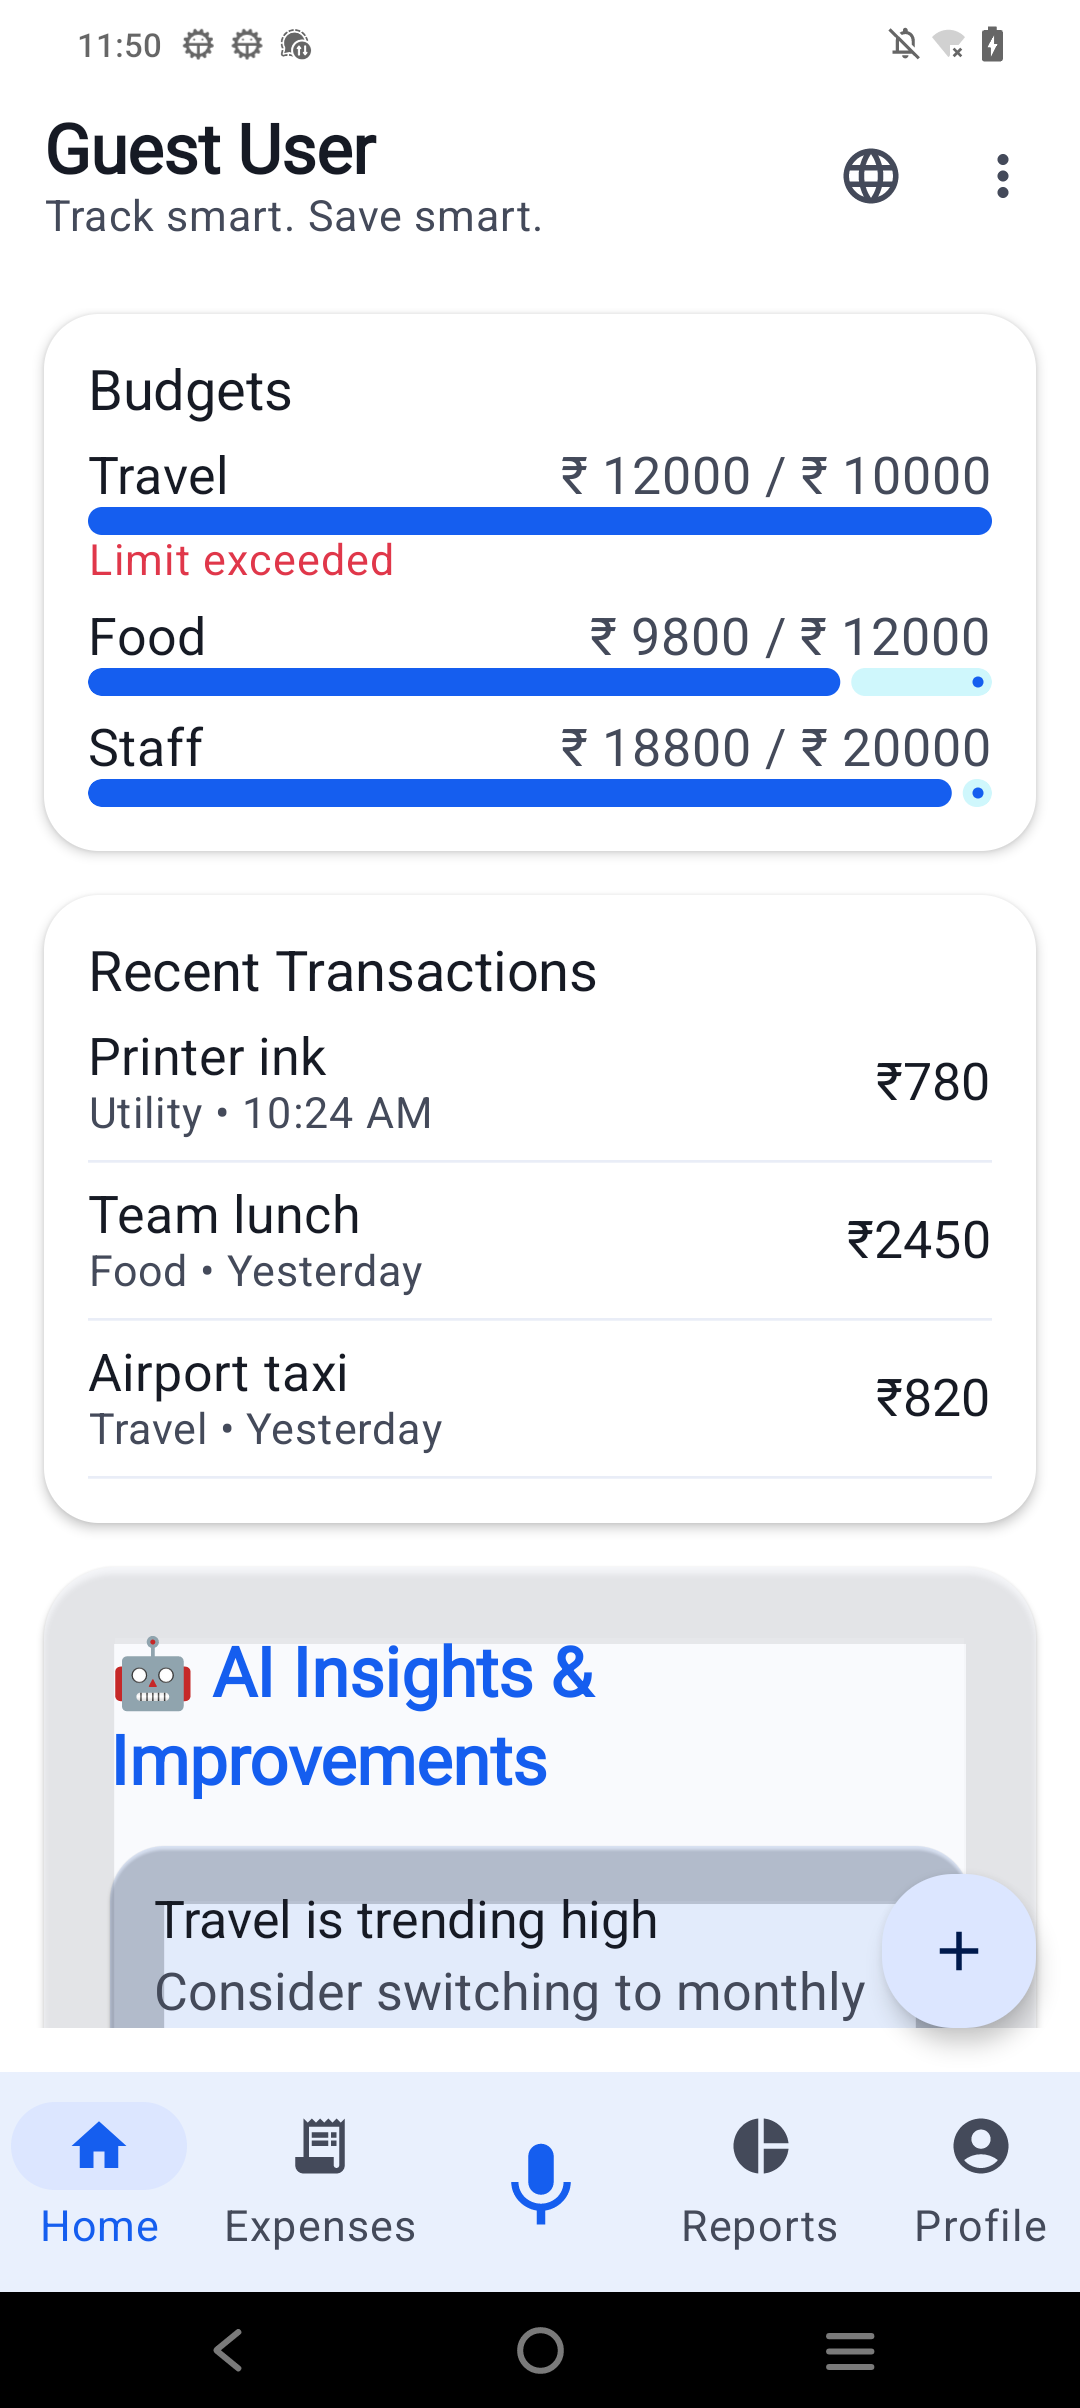
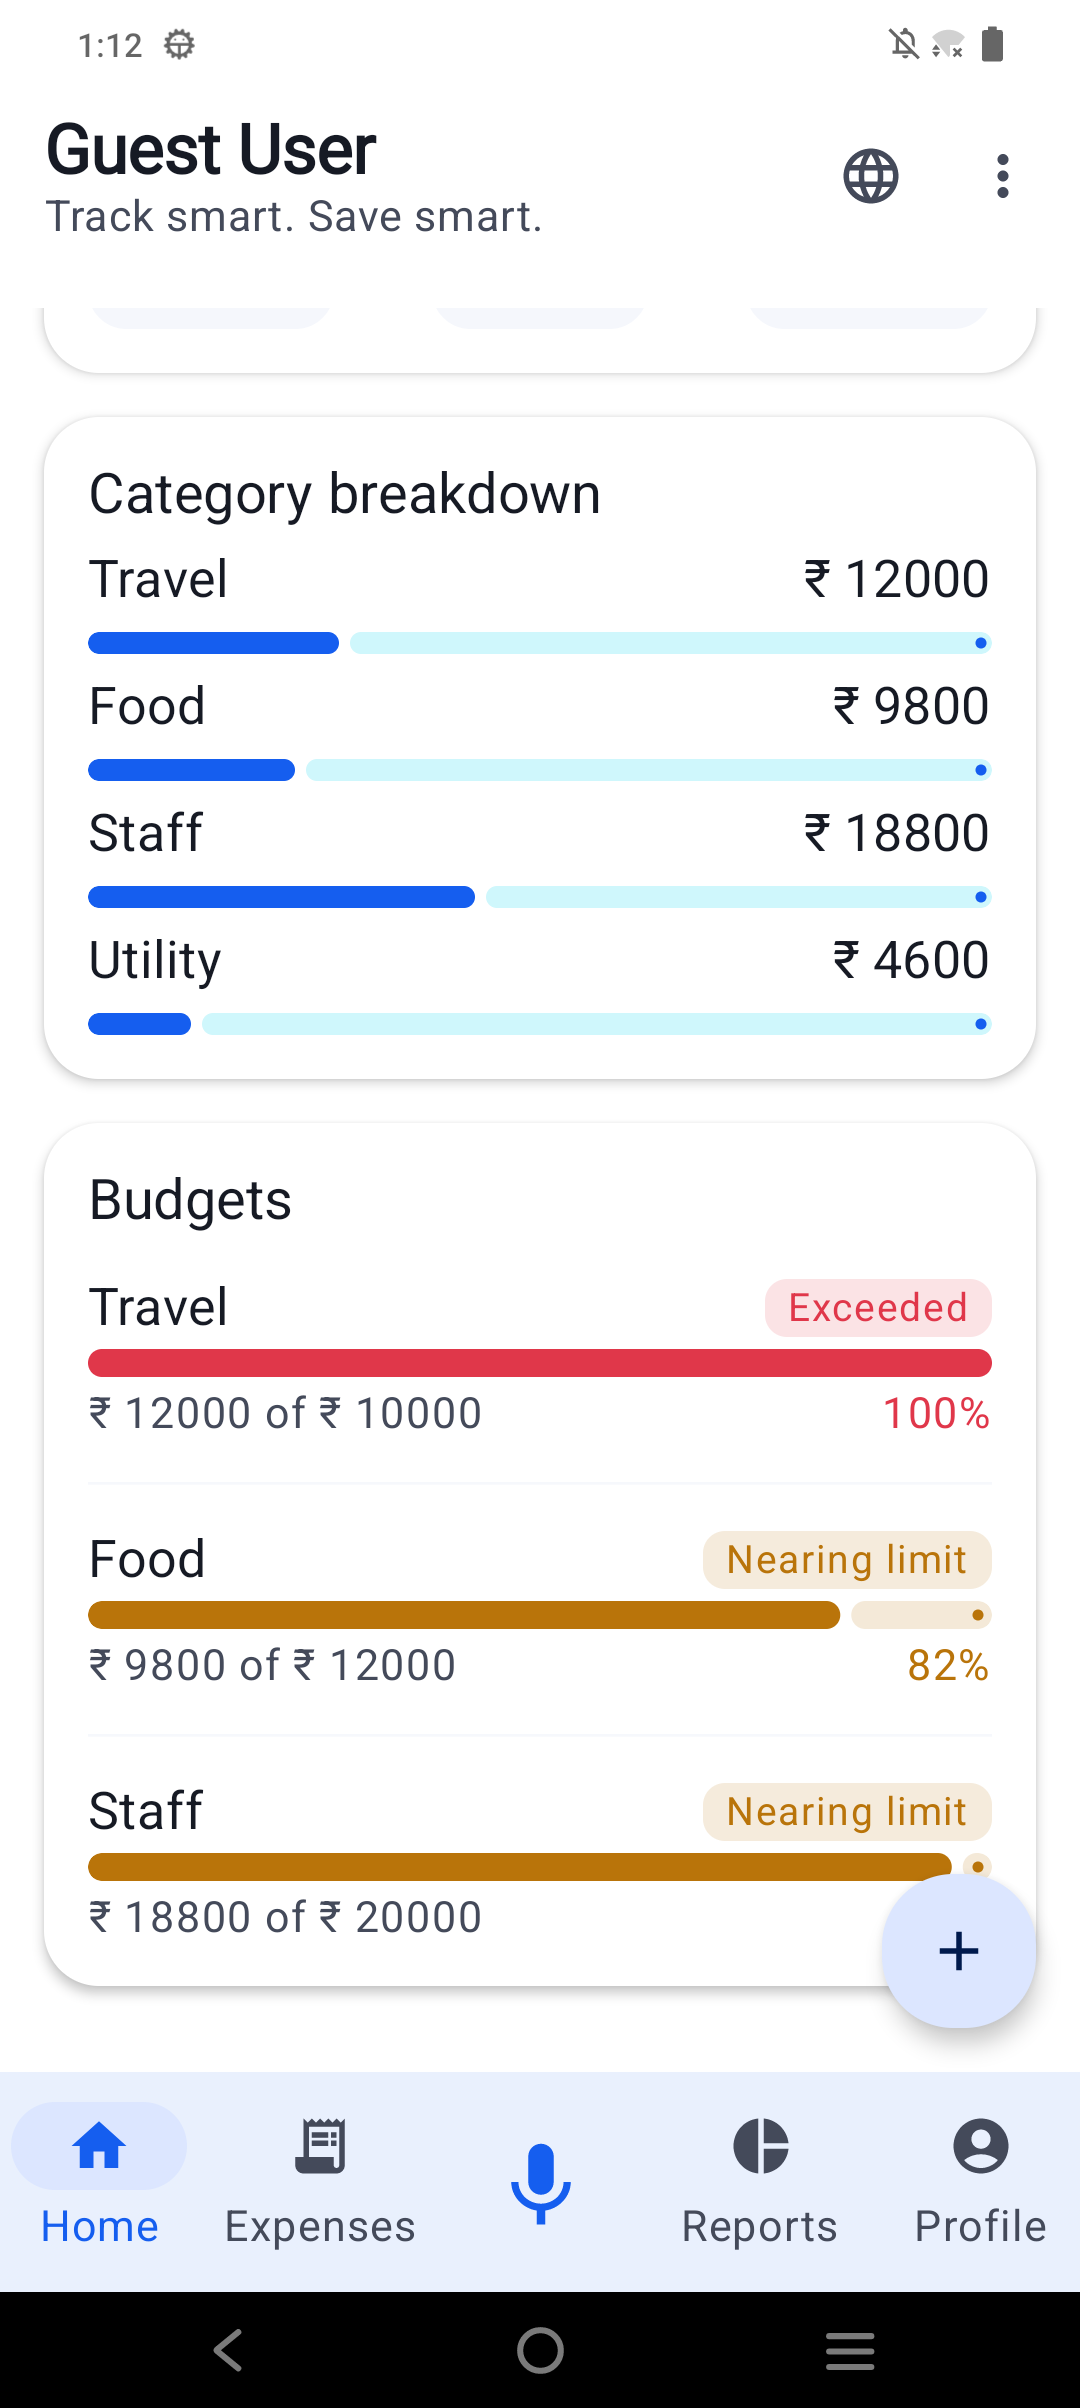
Redesign Home Budgets card with status colors and fix currency bug
Adds Safe/Nearing Limit/Exceeded status pills and color-coded progress
bars using the existing theme tokens, shows spend percentage, adds
dividers between entries, and fixes the card ignoring the selected
currency. Updates the Budgets screenshot in the README to match.

Changed region(s): [[0.0306, 0.1557, 0.9778, 0.8409], [0.0917, 0.0, 0.3056, 0.0311]]

diff --git a/app/src/main/java/com/abhishek/spendly/ui/screens/home/HomeScreen.kt b/app/src/main/java/com/abhishek/spendly/ui/screens/home/HomeScreen.kt
@@ -59,6 +59,7 @@ import androidx.compose.material3.IconButton
 import androidx.compose.material3.LinearProgressIndicator
 import androidx.compose.material3.SuggestionChip
 import androidx.compose.material3.SuggestionChipDefaults
+import androidx.compose.material3.Surface
 import androidx.compose.material3.Text
 import androidx.compose.material3.TextButton
 import androidx.compose.material3.TopAppBar
@@ -78,6 +79,7 @@ import androidx.compose.ui.geometry.Size
 import androidx.compose.ui.graphics.vector.ImageVector
 import androidx.compose.ui.platform.LocalContext
 import androidx.compose.ui.platform.LocalDensity
+import androidx.compose.ui.text.font.FontWeight
 import androidx.compose.ui.text.style.TextOverflow
 import androidx.compose.ui.tooling.preview.Preview
 import androidx.compose.ui.unit.Dp
@@ -90,7 +92,14 @@ import com.abhishek.spendly.data.model.ExpenseStatus
 import com.abhishek.spendly.ui.components.BaseScaffold
 import com.abhishek.spendly.ui.screens.staff.Role
 import com.abhishek.spendly.ui.theme.AppSpacing
+import com.abhishek.spendly.ui.theme.DangerColor
+import com.abhishek.spendly.ui.theme.DangerColorDark
 import com.abhishek.spendly.ui.theme.SpendlyTheme
+import com.abhishek.spendly.ui.theme.SuccessColor
+import com.abhishek.spendly.ui.theme.SuccessColorDark
+import com.abhishek.spendly.ui.theme.WarningColor
+import com.abhishek.spendly.ui.theme.WarningColorDark
+import com.abhishek.spendly.ui.theme.isAppDarkTheme
 import kotlin.collections.take
 import kotlin.math.roundToInt
 
@@ -466,39 +475,76 @@ private fun CategoryBreakdownCard(slices: List<CategorySlice>, currency: Currenc
 
 @Composable
 private fun BudgetsCard(items: List<BudgetProgress>, currency: Currency?) {
+    val isDark = isAppDarkTheme()
+    val symbol = currency?.symbol ?: "₹"
     Card(
         modifier = Modifier.fillMaxWidth(),
         shape = MaterialTheme.shapes.medium,
         colors = CardDefaults.cardColors(containerColor = MaterialTheme.colorScheme.surface),
         elevation = CardDefaults.cardElevation(defaultElevation = 3.dp)
     ) {
-        Column(Modifier.padding(AppSpacing.md), verticalArrangement = Arrangement.spacedBy(AppSpacing.sm)) {
+        Column(Modifier.padding(AppSpacing.md), verticalArrangement = Arrangement.spacedBy(AppSpacing.md)) {
             Text("Budgets", style = MaterialTheme.typography.titleMedium)
-            items.forEach { b ->
-                Column(Modifier.fillMaxWidth()) {
-                    Row(Modifier.fillMaxWidth(), horizontalArrangement = Arrangement.SpaceBetween) {
-                        Text(b.category, style = MaterialTheme.typography.bodyMedium)
+            items.forEachIndexed { index, b ->
+                val pct = (b.spent / (b.limit.coerceAtLeast(1.0))).toFloat().coerceIn(0f, 1f)
+                val status = when {
+                    pct >= 1f -> "Exceeded"
+                    pct >= 0.8f -> "Nearing limit"
+                    else -> "On track"
+                }
+                val statusColor = when (status) {
+                    "Exceeded" -> if (isDark) DangerColorDark else DangerColor
+                    "Nearing limit" -> if (isDark) WarningColorDark else WarningColor
+                    else -> if (isDark) SuccessColorDark else SuccessColor
+                }
+                Column(Modifier.fillMaxWidth(), verticalArrangement = Arrangement.spacedBy(AppSpacing.xs)) {
+                    Row(
+                        Modifier.fillMaxWidth(),
+                        horizontalArrangement = Arrangement.SpaceBetween,
+                        verticalAlignment = Alignment.CenterVertically
+                    ) {
                         Text(
-                            "₹ ${b.spent.roundToInt()} / ₹ ${b.limit.roundToInt()}",
+                            b.category,
                             style = MaterialTheme.typography.bodyMedium,
-                            color = MaterialTheme.colorScheme.onSurfaceVariant
+                            fontWeight = FontWeight.Medium
                         )
+                        Surface(
+                            shape = MaterialTheme.shapes.extraSmall,
+                            color = statusColor.copy(alpha = 0.14f)
+                        ) {
+                            Text(
+                                status,
+                                style = MaterialTheme.typography.labelSmall,
+                                color = statusColor,
+                                modifier = Modifier.padding(horizontal = AppSpacing.sm, vertical = 2.dp)
+                            )
+                        }
                     }
-                    val pct = (b.spent / (b.limit.coerceAtLeast(1.0))).toFloat().coerceIn(0f, 1f)
                     LinearProgressIndicator(
                         progress = { pct },
                         modifier = Modifier
                             .fillMaxWidth()
                             .height(10.dp)
                             .clip(MaterialTheme.shapes.extraSmall),
+                        color = statusColor,
+                        trackColor = statusColor.copy(alpha = 0.16f)
                     )
-                    if (pct >= 1f) {
+                    Row(Modifier.fillMaxWidth(), horizontalArrangement = Arrangement.SpaceBetween) {
                         Text(
-                            text = "Limit exceeded",
-                            color = MaterialTheme.colorScheme.error,
-                            style = MaterialTheme.typography.labelMedium
+                            "$symbol ${b.spent.roundToInt()} of $symbol ${b.limit.roundToInt()}",
+                            style = MaterialTheme.typography.labelMedium,
+                            color = MaterialTheme.colorScheme.onSurfaceVariant
+                        )
+                        Text(
+                            "${(pct * 100).roundToInt()}%",
+                            style = MaterialTheme.typography.labelMedium,
+                            color = statusColor,
+                            fontWeight = FontWeight.Medium
                         )
                     }
+                }
+                if (index != items.lastIndex) {
+                    HorizontalDivider(color = MaterialTheme.colorScheme.outlineVariant.copy(alpha = 0.4f))
                 }
             }
         }
